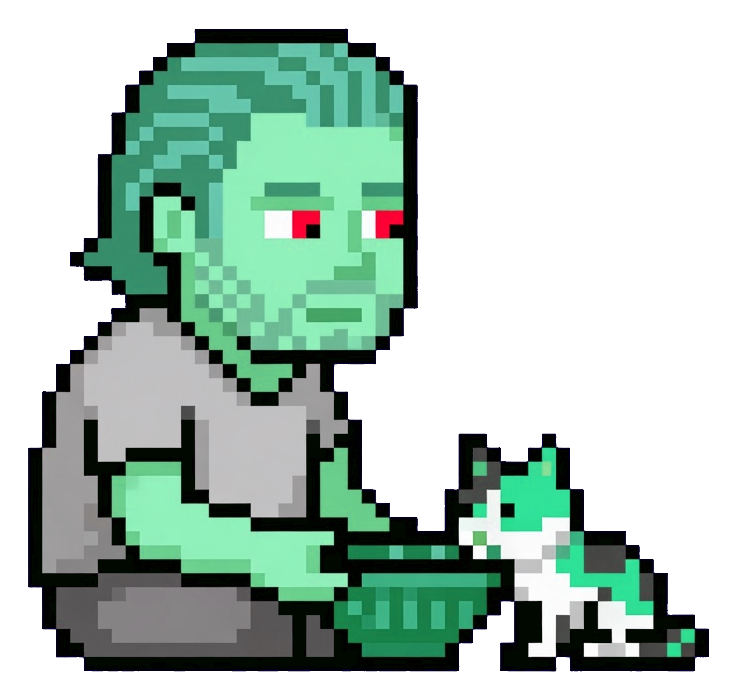
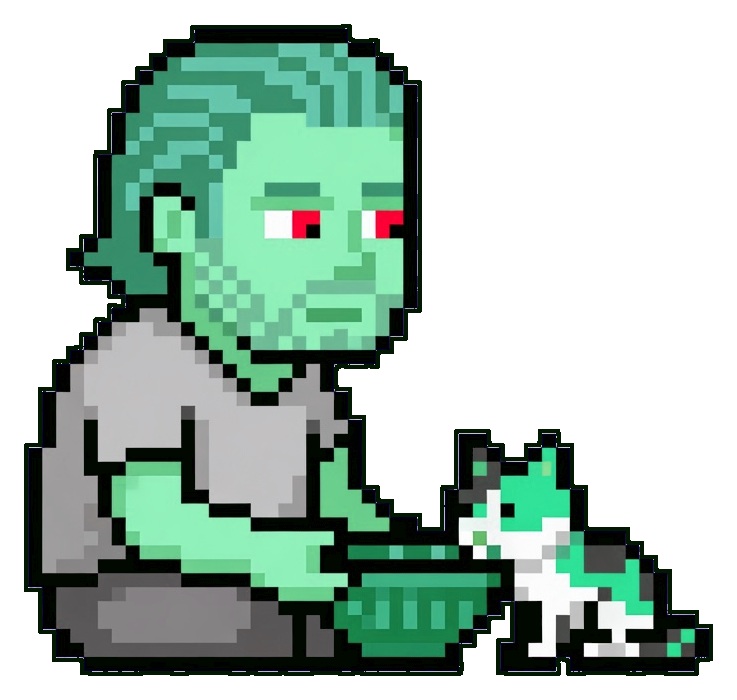
Match 1980s hill texels to Jeremy and outline the sprite.
Stop scaling a tiny dithered plate (iOS blurs it). Draw 1:1 pixel hills
at phone, tablet, and desktop sizes, size them with Jeremy's art cell,
and crop overflow. Dark 1-pixel border so he does not melt into the field.

diff --git a/app/styles/hero-era-art.css b/app/styles/hero-era-art.css
@@ -1,9 +1,11 @@
 /* Overrides so new era plates win without rewriting hero-plates.css. */
 
 :root[data-era="1980s"] .hero-backdrop-photo {
-  background-image: url("/hero/hero-1980s-hill.svg?v=a2g1") !important;
+  background-image: none !important;
   filter: none !important;
   image-rendering: pixelated !important;
+  transform: none !important;
+  overflow: hidden;
 }
 
 :root[data-era="1990s"] .hero-backdrop-photo {
@@ -20,10 +22,6 @@
 }
 
 @media (min-width: 768px) {
-  :root[data-era="1980s"] .hero-backdrop-photo {
-    background-image: url("/hero/hero-1980s-hill-wide.svg?v=a2g1") !important;
-  }
-
   :root[data-era="1990s"] .hero-backdrop-photo {
     background-image: url("/hero/hero-1990s-hill-wide.svg?v=px1") !important;
   }
@@ -291,4 +289,85 @@
 @keyframes fauna-cross-3 {
   0% { transform: translate3d(105vw, 0, 0); }
   100% { transform: translate3d(-14vw, 8px, 0); }
+}
+
+/* 1980s hill texels track Jeremy's 4px art cell (still is 268px = 67 cells).
+   Plates are integer pixels; we size them with --hero-px and crop overflow
+   instead of CSS-scaling a tiny bitmap, which iOS blurs. */
+:root[data-era="1980s"] {
+  --hero-px: calc(9.75rem / 67);
+}
+
+@media (min-width: 768px) {
+  :root[data-era="1980s"] {
+    --hero-px: calc(13.5rem / 67);
+  }
+}
+
+@media (min-width: 1100px) {
+  :root[data-era="1980s"] {
+    --hero-px: calc(14.25rem / 67);
+  }
+}
+
+@media (max-aspect-ratio: 1/1) {
+  :root[data-era="1980s"] {
+    --hero-px: calc(10.25rem / 67);
+  }
+}
+
+@media (max-width: 1100px) and (max-height: 900px) and (min-aspect-ratio: 1/1) {
+  :root[data-era="1980s"] {
+    --hero-px: calc(10.5rem / 67);
+  }
+}
+
+@media (min-width: 768px) and (max-width: 1100px) and (max-height: 900px) and (min-aspect-ratio: 1/1) {
+  :root[data-era="1980s"] {
+    --hero-px: calc(11.25rem / 67);
+  }
+}
+
+.hero-backdrop-1980s-plate {
+  display: none;
+  position: absolute;
+  left: 50%;
+  bottom: 0;
+  max-width: none;
+  pointer-events: none;
+  image-rendering: pixelated;
+  image-rendering: -moz-crisp-edges;
+  image-rendering: crisp-edges;
+  transform: translateX(-50%);
+}
+
+:root[data-era="1980s"] .hero-backdrop-1980s-phone {
+  display: block;
+  width: calc(360 * var(--hero-px));
+  height: calc(520 * var(--hero-px));
+}
+
+@media (min-width: 600px) and (max-aspect-ratio: 1/1) {
+  :root[data-era="1980s"] .hero-backdrop-1980s-phone {
+    display: none;
+  }
+
+  :root[data-era="1980s"] .hero-backdrop-1980s-md {
+    display: block;
+    width: calc(520 * var(--hero-px));
+    height: calc(480 * var(--hero-px));
+  }
+}
+
+@media (min-width: 768px) and (min-aspect-ratio: 1/1) {
+  :root[data-era="1980s"] .hero-backdrop-1980s-phone,
+  :root[data-era="1980s"] .hero-backdrop-1980s-md {
+    display: none;
+  }
+
+  :root[data-era="1980s"] .hero-backdrop-1980s-wide {
+    display: block;
+    width: calc(960 * var(--hero-px));
+    height: calc(360 * var(--hero-px));
+  }
 }

diff --git a/components/hero-backdrop.tsx b/components/hero-backdrop.tsx
@@ -13,7 +13,32 @@ const LEAVES = [
 export function HeroBackdrop() {
   return (
     <div className="hero-backdrop" aria-hidden="true">
-      <div className="hero-backdrop-photo" />
+      <div className="hero-backdrop-photo">
+        <img
+          className="hero-backdrop-1980s-plate hero-backdrop-1980s-phone"
+          src="/hero/hero-1980s-hill.png?v=px2"
+          width={360}
+          height={520}
+          alt=""
+          decoding="async"
+        />
+        <img
+          className="hero-backdrop-1980s-plate hero-backdrop-1980s-md"
+          src="/hero/hero-1980s-hill-md.png?v=px2"
+          width={520}
+          height={480}
+          alt=""
+          decoding="async"
+        />
+        <img
+          className="hero-backdrop-1980s-plate hero-backdrop-1980s-wide"
+          src="/hero/hero-1980s-hill-wide.png?v=px2"
+          width={960}
+          height={360}
+          alt=""
+          decoding="async"
+        />
+      </div>
       <div className="hero-plate-frames" />
       <div className="hero-crt-stars" />
       <div className="hero-paint-shift" />

diff --git a/components/hero-section.tsx b/components/hero-section.tsx
@@ -3,7 +3,7 @@ import { HeroBackdrop } from "@/components/hero-backdrop";
 import { HeroCtas } from "@/components/hero-ctas";
 
 const HERO_ART = [
-  { era: "1980s", still: "/hero/hero-1980s.svg?v=a2g1", live: "/hero/hero-1980s-live.png?v=a2g1", cat: "/hero/hero-1980s-cat.svg?v=a2g1", width: 340, height: 268 },
+  { era: "1980s", still: "/hero/hero-1980s.svg?v=px2", live: "/hero/hero-1980s-live.png?v=px2", cat: "/hero/hero-1980s-cat.svg?v=px2", width: 340, height: 268 },
   { era: "1990s", still: "/hero/hero-1990s.svg?v=cc3", live: "/hero/hero-1990s-live.png?v=era1", cat: "/hero/hero-1990s-cat.svg?v=cc3", width: 320, height: 280 },
   { era: "modern", still: "/hero/hero-modern-d.svg?v=kneel0906", live: "/hero/hero-modern-d-live.png?v=kneel0906", cat: "/hero/hero-modern-d-cat.svg?v=kneel0906", width: 600, height: 560 },
 ] as const;

diff --git a/app/styles/hero-plates.css b/app/styles/hero-plates.css
@@ -127,7 +127,7 @@
 
 :root[data-era="1980s"] .hero-art-1980s {
   image-rendering: pixelated;
-  filter: drop-shadow(1px 1px 0 #061408);
+  filter: none;
 }
 
 :root[data-era="1990s"] .hero-art-1990s {
